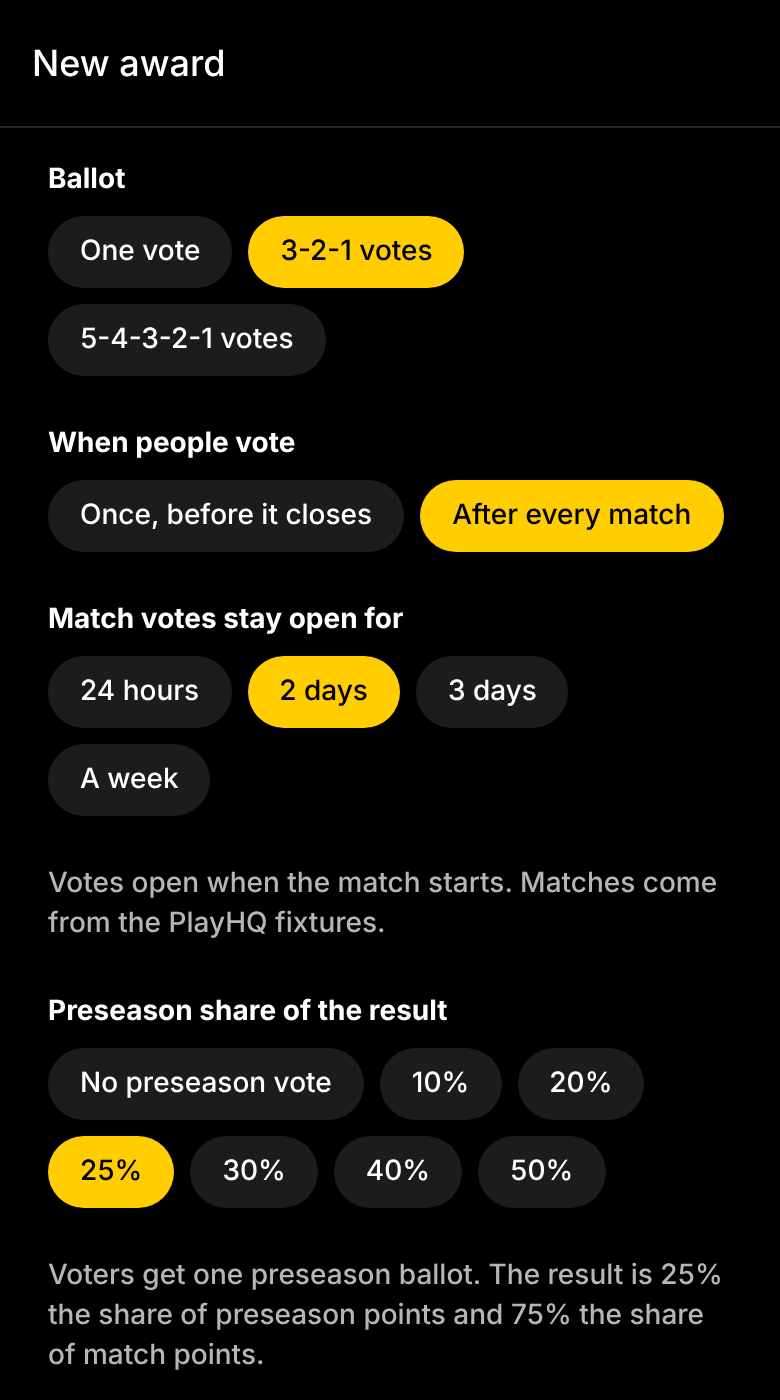
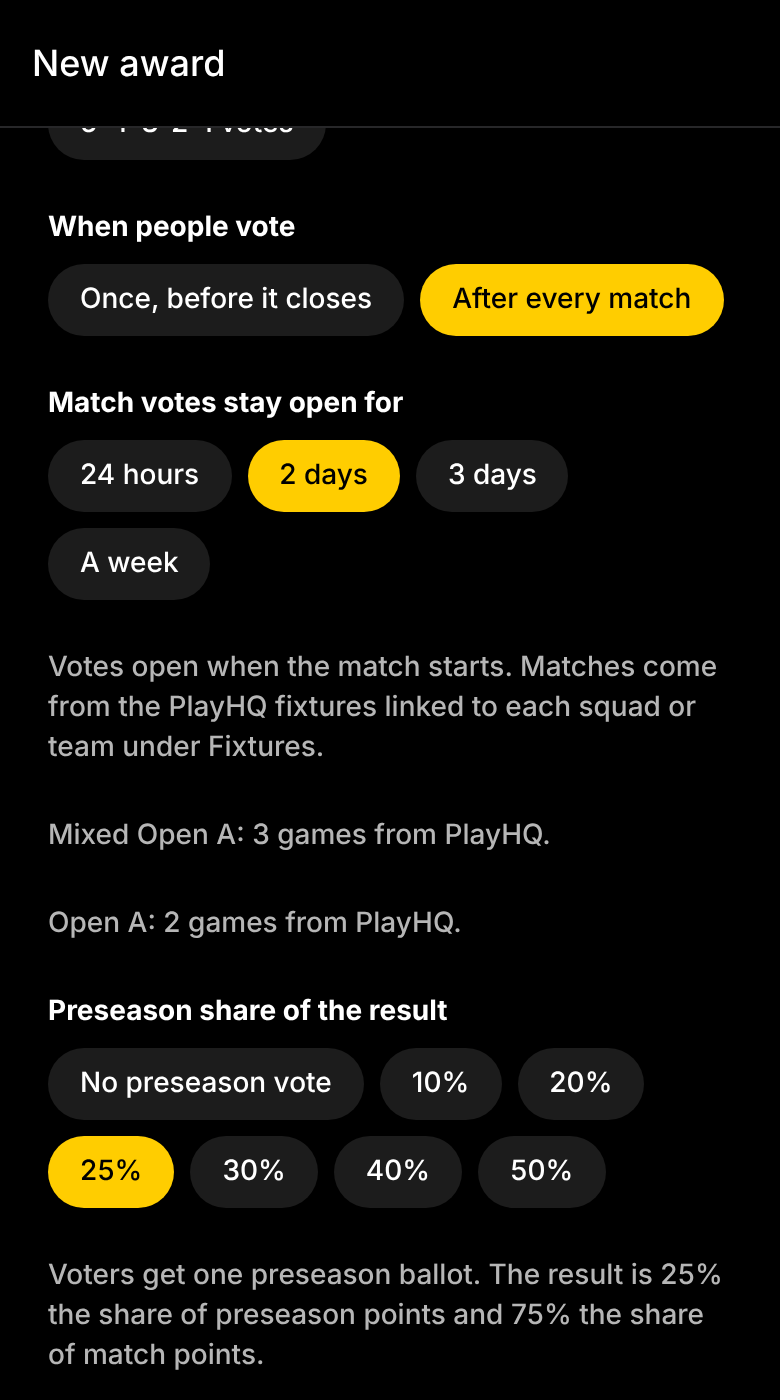
Show which PlayHQ games a match award will use
Match votes only open for fixtures linked to the exact squad or team an
award names, so an award on a squad whose games are linked to its team
never opened a vote, with nothing saying why. The award form now shows
each chosen group's PlayHQ game count and warns when it has none, and
the award page shows each group's next match or that none is linked.

Claude-Session: https://claude.ai/code/session_01BYZNR1mYRq72BSNBrct51A

Changed region(s): [[0.0615, 0.0921, 0.9231, 0.6757]]

diff --git a/src/app/admin/awards/[id].tsx b/src/app/admin/awards/[id].tsx
@@ -13,6 +13,13 @@ import { supabase } from '@/lib/supabase';
 import type { Award, AwardResult, AwardTurnout } from '@/lib/types';
 import { seasonLabel, teamLabel, useTeams } from '@/lib/use-teams';
 
+type UpcomingGame = {
+  team_id: string;
+  opponent: string;
+  round_name: string | null;
+  starts_at: string;
+};
+
 /** One award for admins: its settings, standings and who has voted. */
 export default function AdminAwardScreen() {
   const theme = useTheme();
@@ -21,6 +28,8 @@ export default function AdminAwardScreen() {
   const [award, setAward] = useState<Award | null>(null);
   const [results, setResults] = useState<AwardResult[]>([]);
   const [turnout, setTurnout] = useState<AwardTurnout[]>([]);
+  // Each group's linked PlayHQ games still to come, soonest first.
+  const [upcoming, setUpcoming] = useState<UpcomingGame[]>([]);
   const [refreshing, setRefreshing] = useState(false);
 
   const load = useCallback(async () => {
@@ -32,6 +41,20 @@ export default function AdminAwardScreen() {
     setAward(a.data as Award | null);
     setResults((r.data as AwardResult[] | null) ?? []);
     setTurnout((t.data as AwardTurnout[] | null) ?? []);
+    const loaded = a.data as Award | null;
+    if (loaded?.by_match) {
+      const { data } = await supabase
+        .from('fixtures')
+        .select('team_id, opponent, round_name, starts_at')
+        .in(
+          'team_id',
+          loaded.award_groups.map((g) => g.team_id),
+        )
+        .not('opponent', 'is', null)
+        .gte('starts_at', new Date().toISOString())
+        .order('starts_at');
+      setUpcoming((data as UpcomingGame[] | null) ?? []);
+    }
   }, [id]);
 
   useFocusEffect(
@@ -103,6 +126,7 @@ export default function AdminAwardScreen() {
       {groups.map((group) => {
         const standings = results.filter((r) => r.team_id === group.id);
         const rounds = turnout.filter((t) => t.team_id === group.id);
+        const next = upcoming.find((g) => g.team_id === group.id);
         return (
           <View key={group.id ?? 'club'} style={styles.section}>
             <ThemedText type="smallBold">{group.name ?? 'Results'}</ThemedText>
@@ -162,10 +186,23 @@ export default function AdminAwardScreen() {
                   </View>
                 ))}
               </Card>
-            ) : award.by_match ? (
-              <ThemedText type="small" themeColor="textSecondary">
-                No matches played yet.
-              </ThemedText>
+            ) : null}
+            {award.by_match ? (
+              next ? (
+                <ThemedText type="small" themeColor="textSecondary">
+                  Next match: {next.round_name ?? 'Match'} v {next.opponent} ·{' '}
+                  {formatShortDay(new Date(next.starts_at))}. Its vote opens when it starts.
+                </ThemedText>
+              ) : rounds.some((t) => t.fixture_id) ? (
+                <ThemedText type="small" themeColor="textSecondary">
+                  No more matches from PlayHQ.
+                </ThemedText>
+              ) : (
+                <ThemedText type="small" themeColor="accent">
+                  No PlayHQ games are linked to {group.name ?? 'this group'}, so no match votes will
+                  open. Link it under Fixtures.
+                </ThemedText>
+              )
             ) : null}
           </View>
         );

diff --git a/src/app/admin/awards/edit.tsx b/src/app/admin/awards/edit.tsx
@@ -76,9 +76,26 @@ export default function EditAwardScreen() {
   // No longer offered in the form; kept as it was on older awards.
   const [annual, setAnnual] = useState(false);
   const [candidates, setCandidates] = useState('');
+  // PlayHQ games linked to each squad or team, for match awards.
+  const [games, setGames] = useState<Record<string, number>>({});
   const [saving, setSaving] = useState(false);
   const [deleting, setDeleting] = useState(false);
   const [error, setError] = useState<string | null>(null);
+
+  useEffect(() => {
+    (async () => {
+      const { data } = await supabase
+        .from('fixtures')
+        .select('team_id')
+        .not('team_id', 'is', null)
+        .not('opponent', 'is', null);
+      const counts: Record<string, number> = {};
+      for (const f of (data as { team_id: string }[] | null) ?? []) {
+        counts[f.team_id] = (counts[f.team_id] ?? 0) + 1;
+      }
+      setGames(counts);
+    })();
+  }, []);
 
   // Past awards to start a new one from.
   useEffect(() => {
@@ -385,8 +402,21 @@ export default function EditAwardScreen() {
             onToggle={setHours}
           />
           <ThemedText type="small" themeColor="textSecondary">
-            Votes open when the match starts. Matches come from the PlayHQ fixtures.
+            Votes open when the match starts. Matches come from the PlayHQ fixtures linked to each
+            squad or team under Fixtures.
           </ThemedText>
+          {seasonGroups
+            .filter((t) => groupIds.includes(t.id))
+            .map((t) => (
+              <ThemedText
+                key={t.id}
+                type="small"
+                themeColor={games[t.id] ? 'textSecondary' : 'accent'}>
+                {games[t.id]
+                  ? `${teamLabel(t, teams)}: ${games[t.id]} ${games[t.id] === 1 ? 'game' : 'games'} from PlayHQ.`
+                  : `${teamLabel(t, teams)}: no PlayHQ games are linked, so no match votes will open. Link it under Fixtures, or choose the ${t.kind === 'squad' ? 'team' : 'squad'} its games are linked to.`}
+              </ThemedText>
+            ))}
           {!locked ? (
             <ChipGroup
               label="Preseason share of the result"

diff --git a/docs/user-guide.md b/docs/user-guide.md
@@ -682,7 +682,9 @@ Nothing is deleted when a season is archived.
 - **Ballot**: **One vote**, **3-2-1 votes** or **5-4-3-2-1 votes**.
 - **When people vote** (awards with a winner for each group): **Once, before it closes**, or
   **After every match**, using the PlayHQ fixtures. Match votes stay open for a set time after
-  each match starts.
+  each match starts. Match votes only open for the squads and teams the PlayHQ games are linked
+  to under **Fixtures**, so the form shows how many games each chosen squad or team has, and warns
+  you when it has none. The award's page shows each one's next match.
 - **Preseason share of the result** (match awards): voters also get one preseason ballot. With
   25%, the result is 25% each nominee's share of the preseason points and 75% their share of the
   match points.
